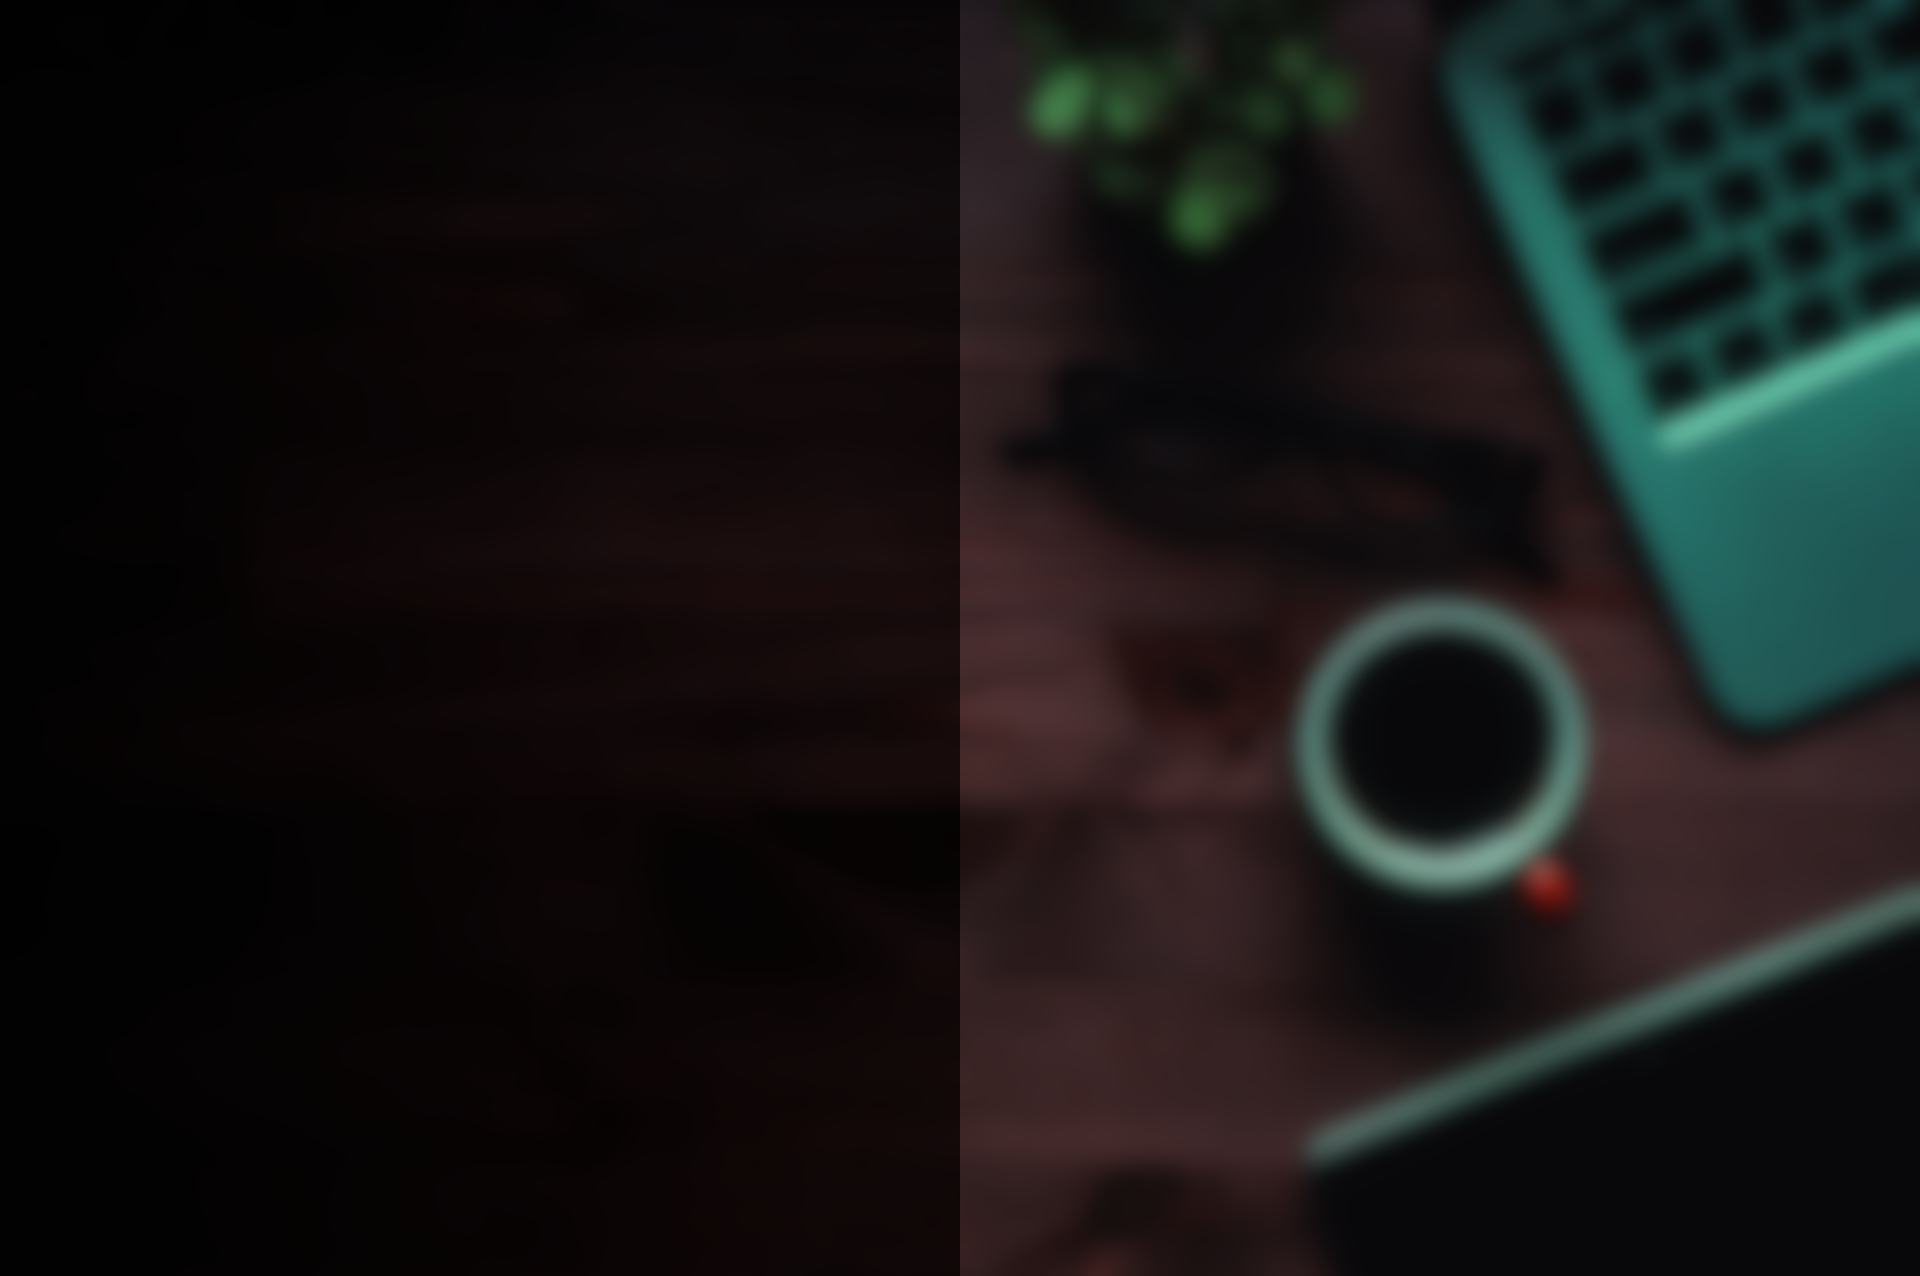
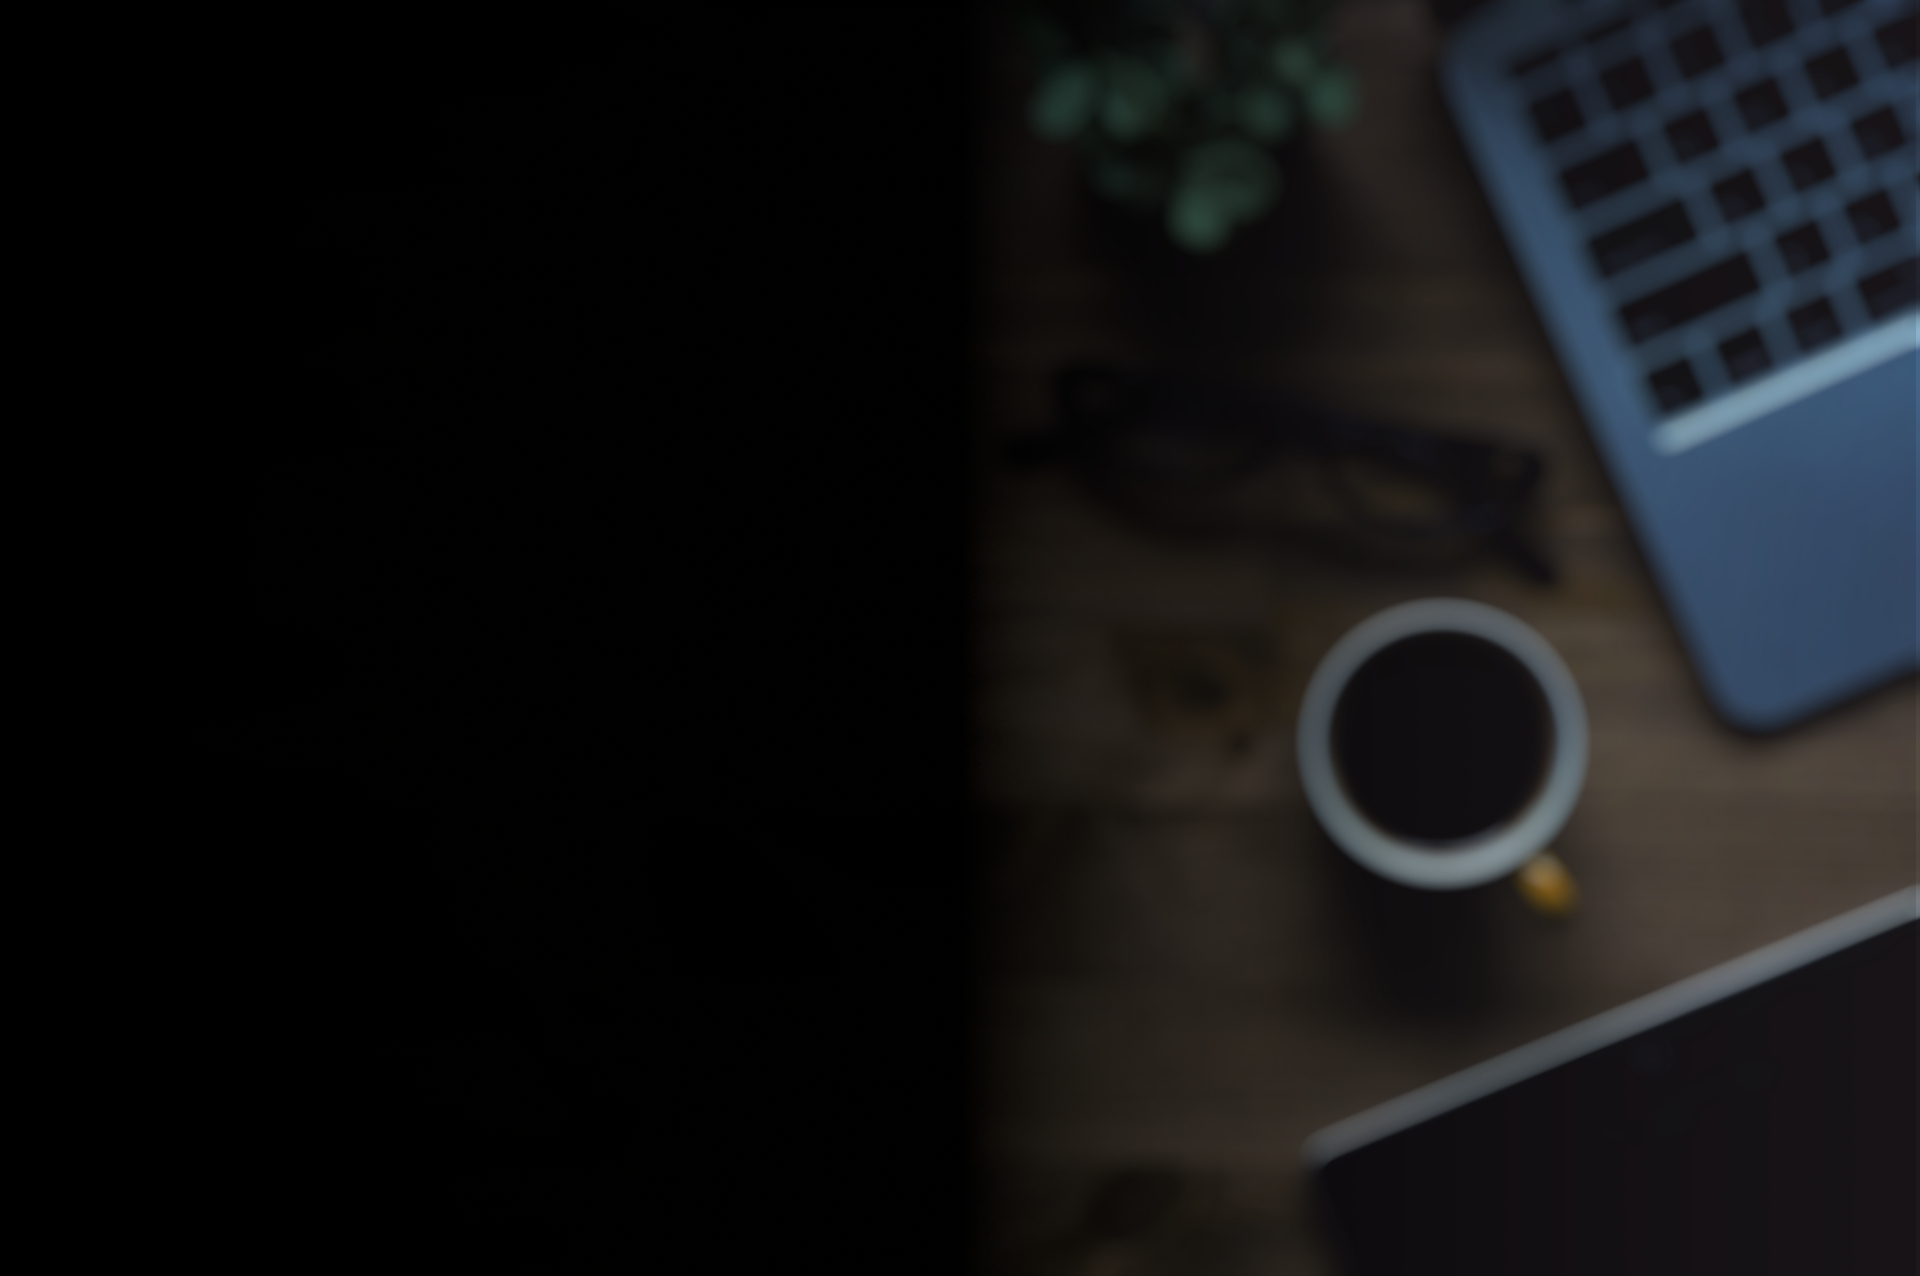
Color palette changed.

diff --git a/src/pages/Projetos/ContainerProjetos/index.jsx b/src/pages/Projetos/ContainerProjetos/index.jsx
@@ -27,7 +27,7 @@ const ContainerProjetos = styled.div`
                 backface-visibility: hidden;
                 color: black;
                 background-color: var(--deuxieme);
-                border: .3rem solid var(--quatrieme);
+                border: .3rem solid var(--noir);
                 cursor: pointer;
                 img {
                     width: 100%;
@@ -43,22 +43,22 @@ const ContainerProjetos = styled.div`
                 height: 100%;
                 -webkit-backface-visibility: hidden;
                 backface-visibility: hidden;
-                background: var(--deuxieme);
-                color: var(--troisieme);
+                background: var(--troisieme);
+                color: var(--deuxieme);
                 transform: rotateY(180deg);
                 display: flex;
                 align-items: center;
                 justify-content: center;
                 text-align: center;
                 padding: 0 1rem;
-                border: .2rem solid var(--quatrieme);
+                border: .3rem solid var(--noir);
                 .info-card {
                     display: flex;
                     flex-direction: column;
                     align-items: center;
                     gap: 1.5rem;
                     h1 {
-                        color: var(--troisieme);
+                        color: var(--deuxieme);
                         font-weight: 400;
                         font-size: 2.4rem;
                         position: relative;
@@ -82,17 +82,17 @@ const ContainerProjetos = styled.div`
                             gap: .6rem;
                             text-transform: uppercase;
                             font-size: 1.52rem;
-                            color: var(--deuxieme);
+                            color: var(--troisieme);
                             padding: 8px 15px;
                             position: relative;
-                            border: 3px solid var(--deuxieme);
+                            border: 3px solid var(--troisieme);
                             background: var(--quatrieme);
                             border-radius: 10px;
                             transition: all .3s ease-in-out;
                             &:hover {
                                 border-color: var(--quatrieme);
-                                color: var(--troisieme);
-                                background: var(--deuxieme);
+                                color: var(--deuxieme);
+                                background: var(--troisieme);
                             }
                         }
                     }
@@ -102,7 +102,7 @@ const ContainerProjetos = styled.div`
                     bottom: 1.2rem;
                     right: 1.2rem;
                     border: none;
-                    background: var(--deuxieme);
+                    background: transparent;
                     border: 2px solid var(--quatrieme);
                     width: 4rem;
                     height: 4rem;
@@ -117,7 +117,7 @@ const ContainerProjetos = styled.div`
                     }
                     cursor: pointer;
                     .voltar {
-                        color: var(--quatrieme);
+                        color: var(--deuxieme);
                     }
                 }
             }

diff --git a/src/pages/Contato/ContainerContato/index.jsx b/src/pages/Contato/ContainerContato/index.jsx
@@ -26,7 +26,7 @@ const ContainerContato = styled.div`
             left: 50%;
             margin-left: -15%;
             bottom: 0;
-            background: var(--quatrieme);
+            background: var(--premiere);
             width: 30%;
             height: 2px;
             transition: all .3s ease-in-out;
@@ -62,7 +62,7 @@ const ContainerContato = styled.div`
                 outline: none;
                 color: var(--troisieme);
                 transition: all .3s ease-in-out;
-                &:focus { border-color: var(--quatrieme); }
+                &:focus { border-color: var(--premiere); }
                 &::placeholder {
                     opacity: 1;
                     color: var(--troisieme);
@@ -80,7 +80,7 @@ const ContainerContato = styled.div`
             outline: none;
             color: var(--troisieme);
             transition: all .3s ease-in-out;
-            &:focus { border-color: var(--quatrieme); }
+            &:focus { border-color: var(--premiere); }
             &::placeholder {
                 opacity: 1;
                 color: var(--troisieme);
@@ -120,9 +120,9 @@ const ContainerContato = styled.div`
                     transition: all .3s ease-in-out;
                 }
                 &:hover {
-                    color: var(--deuxieme);
+                    color: var(--troisieme);
                     background: var(--quatrieme);
-                    .send_bullet { color: var(--deuxieme); }
+                    .send_bullet { color: var(--troisieme); }
                 }
             }
         }

diff --git a/src/pages/Formacao/ComponentesFormacao/index.jsx b/src/pages/Formacao/ComponentesFormacao/index.jsx
@@ -14,7 +14,7 @@ const Formacoes = styled.div`
         .curso-nome {
             font-size: 2rem;
             font-weight: normal;
-            color: var(--quatrieme);
+            color: var(--premiere);
             display: inline-block;
         }
         .instituicao-nome {
@@ -42,16 +42,16 @@ const Formacoes = styled.div`
                 padding: .9rem 1.5rem .8rem;
                 font-weight: 700;
                 overflow: hidden;
-                border: .2rem solid var(--quatrieme);
+                border: .2rem solid var(--premiere);
                 border-radius: 8px;
                 .arrow_more {
-                    color: var(--quatrieme);
+                    color: var(--premiere);
                     transition: all .35s ease-in-out;
                 }
                 &:hover {
-                    color: var(--deuxieme);
-                    background: var(--quatrieme);
-                    .arrow_more { color: var(--deuxieme); }
+                    color: var(--noir);
+                    background: var(--premiere);
+                    .arrow_more { color: var(--noir); }
                 }
             }
         }

diff --git a/src/components/Menu/Navegacao/index.jsx b/src/components/Menu/Navegacao/index.jsx
@@ -24,7 +24,7 @@ const Navegacao = styled.nav`
                 display: flex;
                 justify-content: center;
                 align-items: center;
-                color: var(--cor-quaternaria);
+                color: var(--cinza-medio);
                 font-size: 6rem;
                 transition: all .25s ease-in-out;
             }
@@ -50,7 +50,7 @@ const Navegacao = styled.nav`
                     left: 0;
                     width: 0;
                     height: 100%;
-                    background: var(--quatrieme);
+                    background: var(--premiere);
                     transition: all .25s ease-in-out;
                 }
                 &::after {
@@ -64,7 +64,7 @@ const Navegacao = styled.nav`
                     transition: all .25s ease-in-out;
                 }
                 &:hover {
-                    color: var(--cor-quaternaria);
+                    color: var(--noir);
                     padding: .3rem .1rem .3rem 1.5rem;
                     border-color: transparent;
                     &::before {

diff --git a/src/pages/About/AboutInfo/index.jsx b/src/pages/About/AboutInfo/index.jsx
@@ -6,16 +6,16 @@ const AboutInfo = styled.div`
     align-items: center;
     margin-top: 3rem;
     padding: 0 2.5rem;
-    color: var(--troisieme);
+    color: var(--deuxieme);
     .text-intro {
         flex: 0 1 55%;
         p {
             text-align: center;
             font-size: 2rem;
-            border: .6rem double var(--quatrieme);
+            border: .7rem double var(--cinza-medio);
             padding: 3.6rem;
             line-height: 1.5;
-            border-radius: .9rem;
+            border-radius: 1rem;
             a {
                 border-bottom: 2px solid var(--primeira-cor);
                 color: var(--preto);
@@ -23,10 +23,10 @@ const AboutInfo = styled.div`
             }
             .estilizado {
                 font-weight: 700;
-                color: var(--deuxieme);
+                color: var(--troisieme);
                 background: var(--quatrieme);
                 padding: 0 .3rem;
-                border-radius: .8rem;
+                //border-radius: .8rem;
             }
         }
     }

diff --git a/src/pages/Projetos/index.jsx b/src/pages/Projetos/index.jsx
@@ -26,15 +26,15 @@ const Projetos = () => {
     };
 
     return (
-        <Secao corDeFundo="var(--noir)" id="projetos">
+        <Secao corDeFundo="var(--troisieme)" id="projetos">
             <Container>
                 <Titulo
                     corDaBorda="var(--quatrieme)"
-                    corDoTexto="var(--troisieme)"
+                    corDoTexto="var(--deuxieme)"
                 >
                     Projetos
                 </Titulo>
-                <Paragrafo>Aqui estão alguns dos meus projetos.</Paragrafo>
+                <Paragrafo>Conheça alguns dos meus projetos.</Paragrafo>
                 <ContainerProjetos $tamanho={`${projects.length * 336}px`}>
                     {projects.map(projeto =>
                         <MeusProjetos

diff --git a/src/components/Footer/index.jsx b/src/components/Footer/index.jsx
@@ -6,10 +6,10 @@ const Footer = ({ anoAtual }) => {
     return (
         <Rodape>
             <Container>
-                <a href="http://linktr.ee/yapeansa" target="_blank"><SiLinktree size={35} color="var(--quatrieme)" /></a>
+                <a href="http://linktr.ee/yapeansa" target="_blank"><SiLinktree size={35} color="var(--premiere)" /></a>
                 <p>
                     &copy;{anoAtual.getFullYear()} - Desenvolvido por&nbsp;
-                    <span style={{ borderBottom: '2px dashed var(--quatrieme)', display: 'inline-block' }}>
+                    <span style={{ borderBottom: '2px dashed var(--premiere)', display: 'inline-block' }}>
                         Yago Pereira
                     </span>.
                 </p>

diff --git a/src/pages/Contato/index.jsx b/src/pages/Contato/index.jsx
@@ -78,7 +78,7 @@ const Contato = ({ enviado, setEnviado }) => {
                 <ContainerContato>
                     <p>Pronto para trazer vida ao seu projeto? Você pode falar comigo enviando-me um e-mail através do seguinte endereço:</p>
                     <a href="mailto:yapeansa@gmail.com">
-                        <SiGmail size={30} color="var(--quatrieme)" /> yapeansa@gmail.com
+                        <SiGmail size={30} color="var(--premiere)" /> yapeansa@gmail.com
                     </a>
                     <p>Ou, se preferir, preencha o formulário a seguir com os seus dados e sua mensagem.</p>
                     <form ref={form} onSubmit={sendEmail}>

diff --git a/src/pages/About/index.jsx b/src/pages/About/index.jsx
@@ -6,11 +6,11 @@ import me from "@/assets/images/me.jpg";
 
 const About = () => {
     return (
-        <Secao corDeFundo="linear-gradient(to bottom, var(--noir), var(--deuxieme))" id="sobre">
+        <Secao corDeFundo="var(--troisieme)" id="sobre">
             <Container>
                 <Titulo
                     corDaBorda="var(--quatrieme)"
-                    corDoTexto="var(--troisieme)"
+                    corDoTexto="var(--deuxieme)"
                 >
                     Quem sou eu
                 </Titulo>

diff --git a/src/EstilosGlobais/index.jsx b/src/EstilosGlobais/index.jsx
@@ -8,10 +8,10 @@ const EstilosGlobais = createGlobalStyle`
         --fonte-primaria: 'Roboto', sans-serif;
         --fonte-secundaria: 'Montserrat', sans-serif;
 
-        --premiere: #35E6E9;
+        --premiere: #FFBF00;
         --deuxieme: #141414;
         --troisieme: #f4f2f2;
-        --quatrieme: #FF5678;
+        --quatrieme: #9F00FF;
         --noir: #000000;
 
         --cor-quaternaria: #1F2833;

diff --git a/src/pages/Formacao/index.jsx b/src/pages/Formacao/index.jsx
@@ -21,7 +21,7 @@ const Formacao = () => {
     };
 
     return (
-        <Secao corDeFundo="linear-gradient(to bottom, var(--noir), var(--deuxieme))" id="formacao">
+        <Secao corDeFundo="linear-gradient(to top, var(--noir), var(--cinza-medio))" id="formacao">
             <Container>
                 <Titulo
                     corDaBorda="var(--quatrieme)"

diff --git a/src/pages/Intro/EstilosIntro/index.jsx b/src/pages/Intro/EstilosIntro/index.jsx
@@ -18,7 +18,7 @@ const SecaoIntro = styled.section`
         }
         .destaque {
             color: var(--quatrieme);
-            background-color: var(--deuxieme);
+            background-color: rgba(0, 0, 0, .5);
             font-weight: 700;
             text-shadow: none;
             padding: 0 .3rem;
